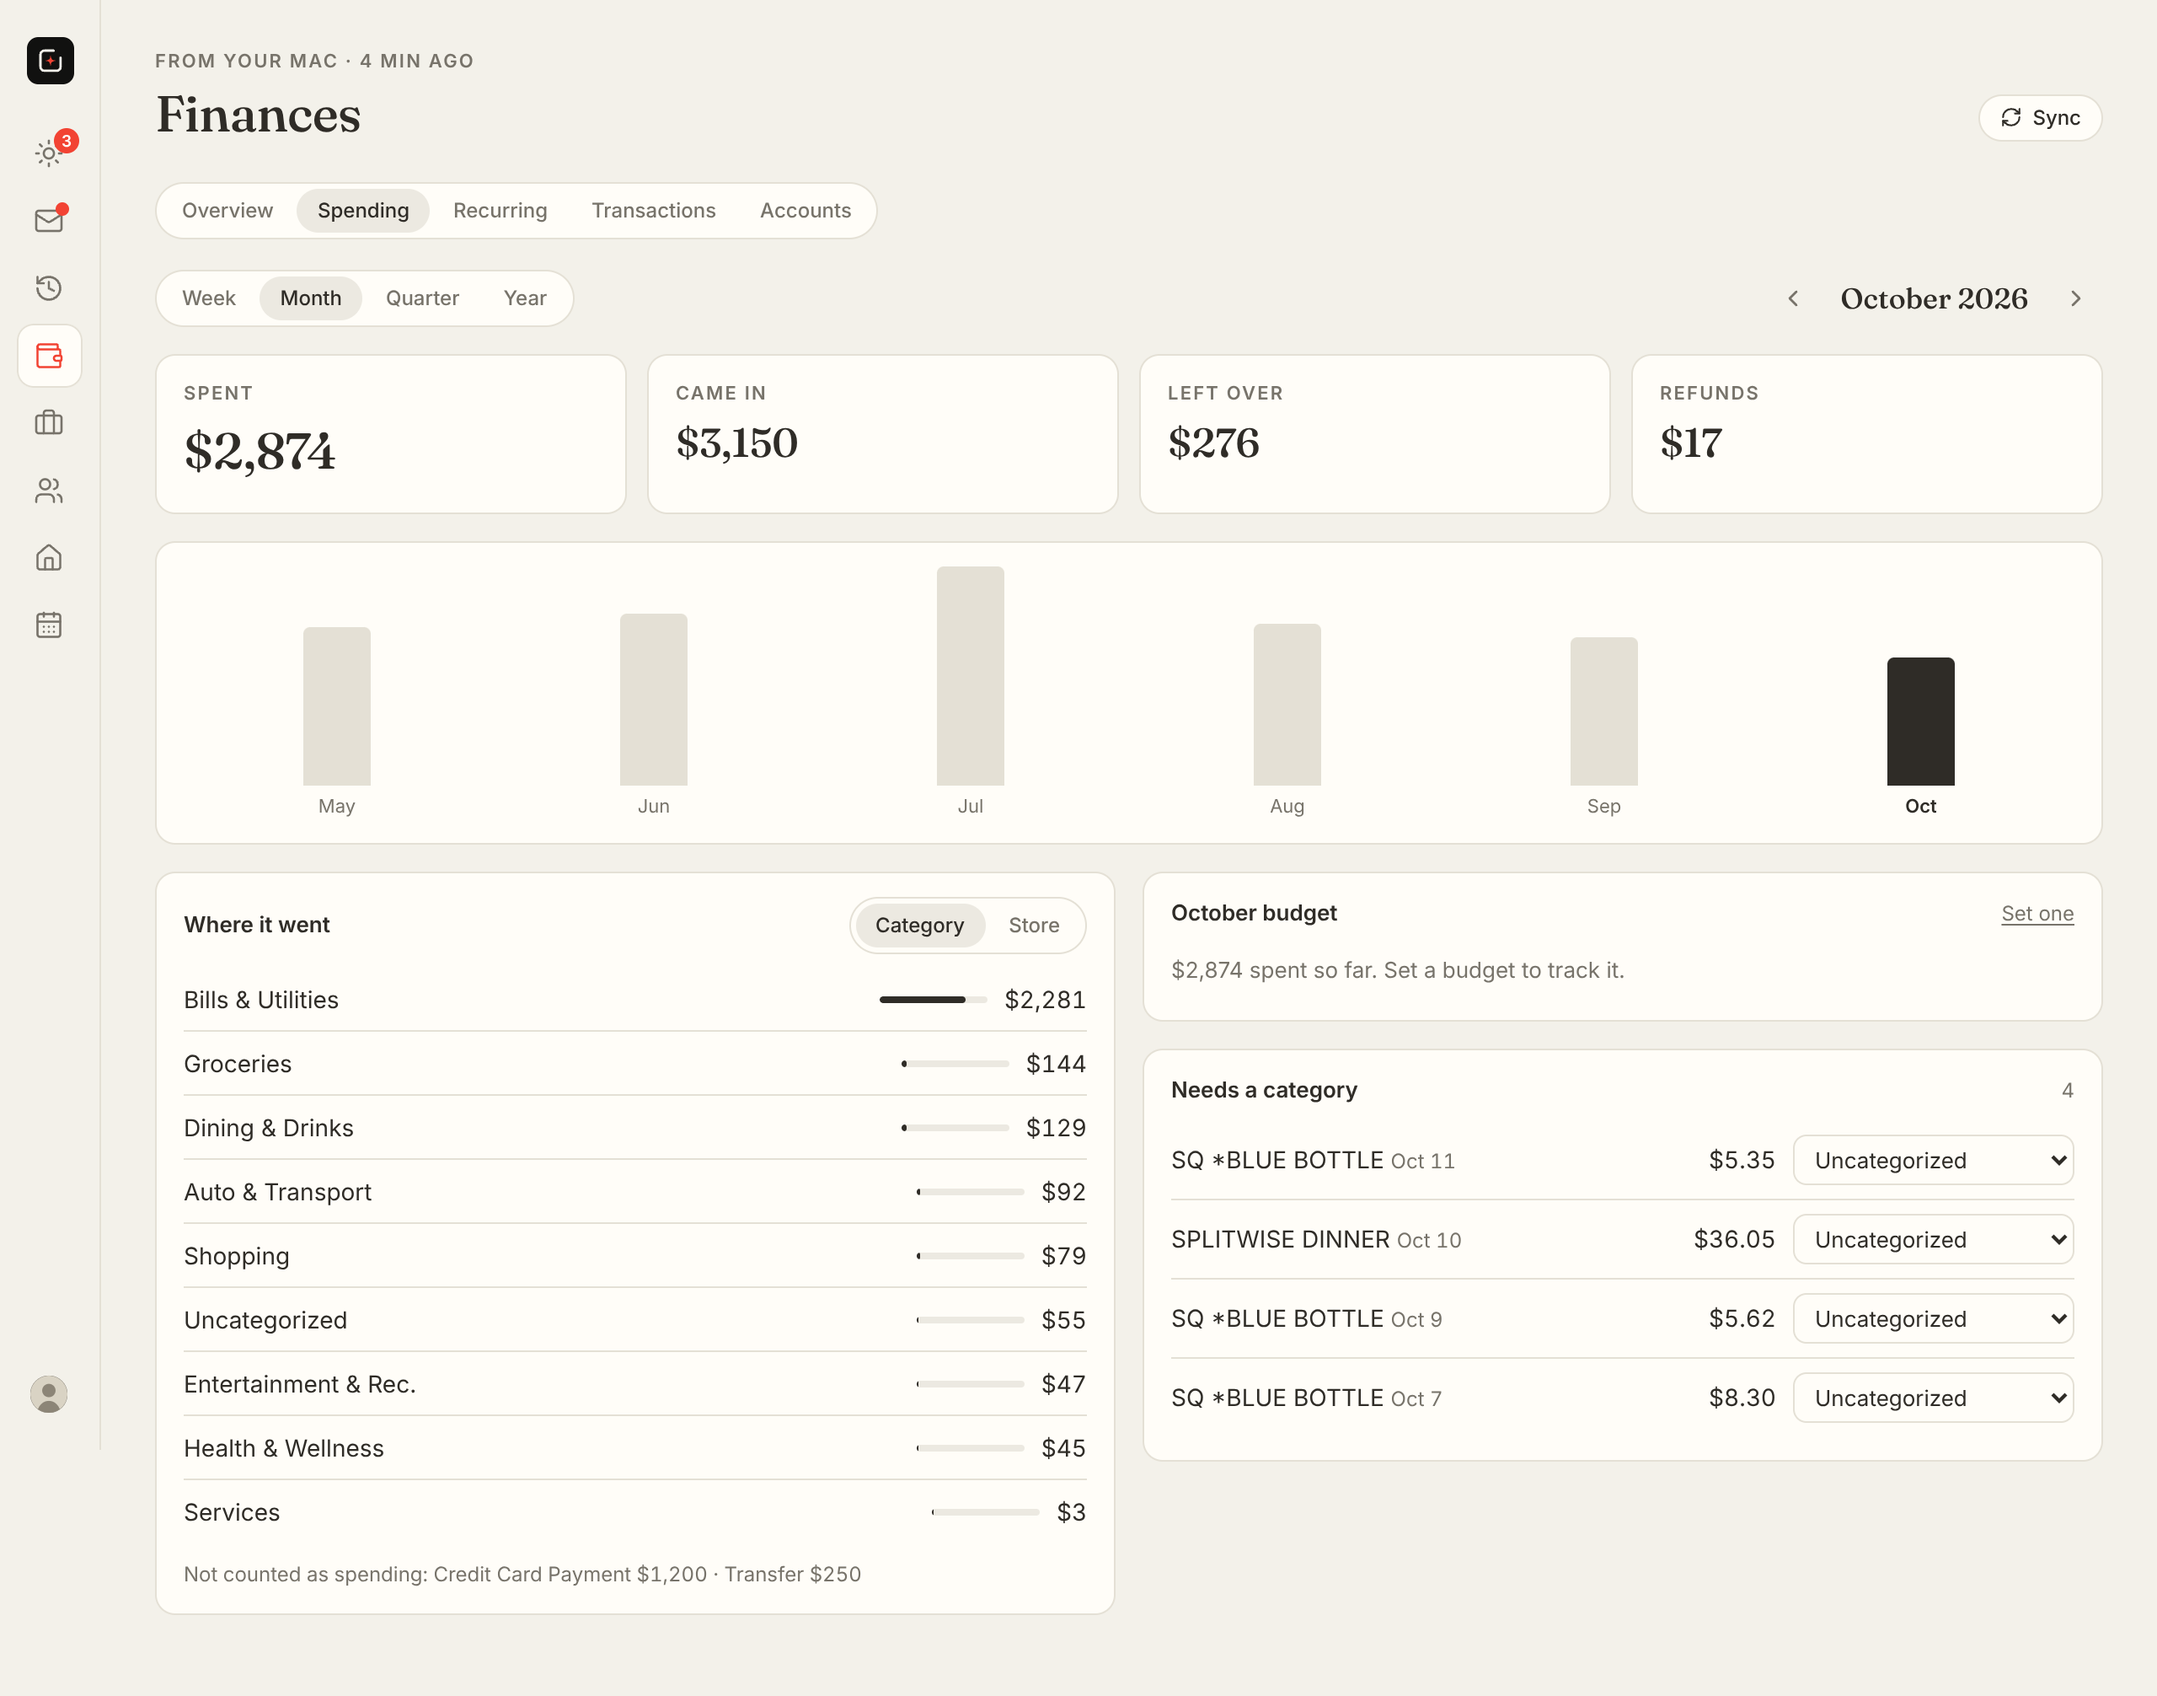
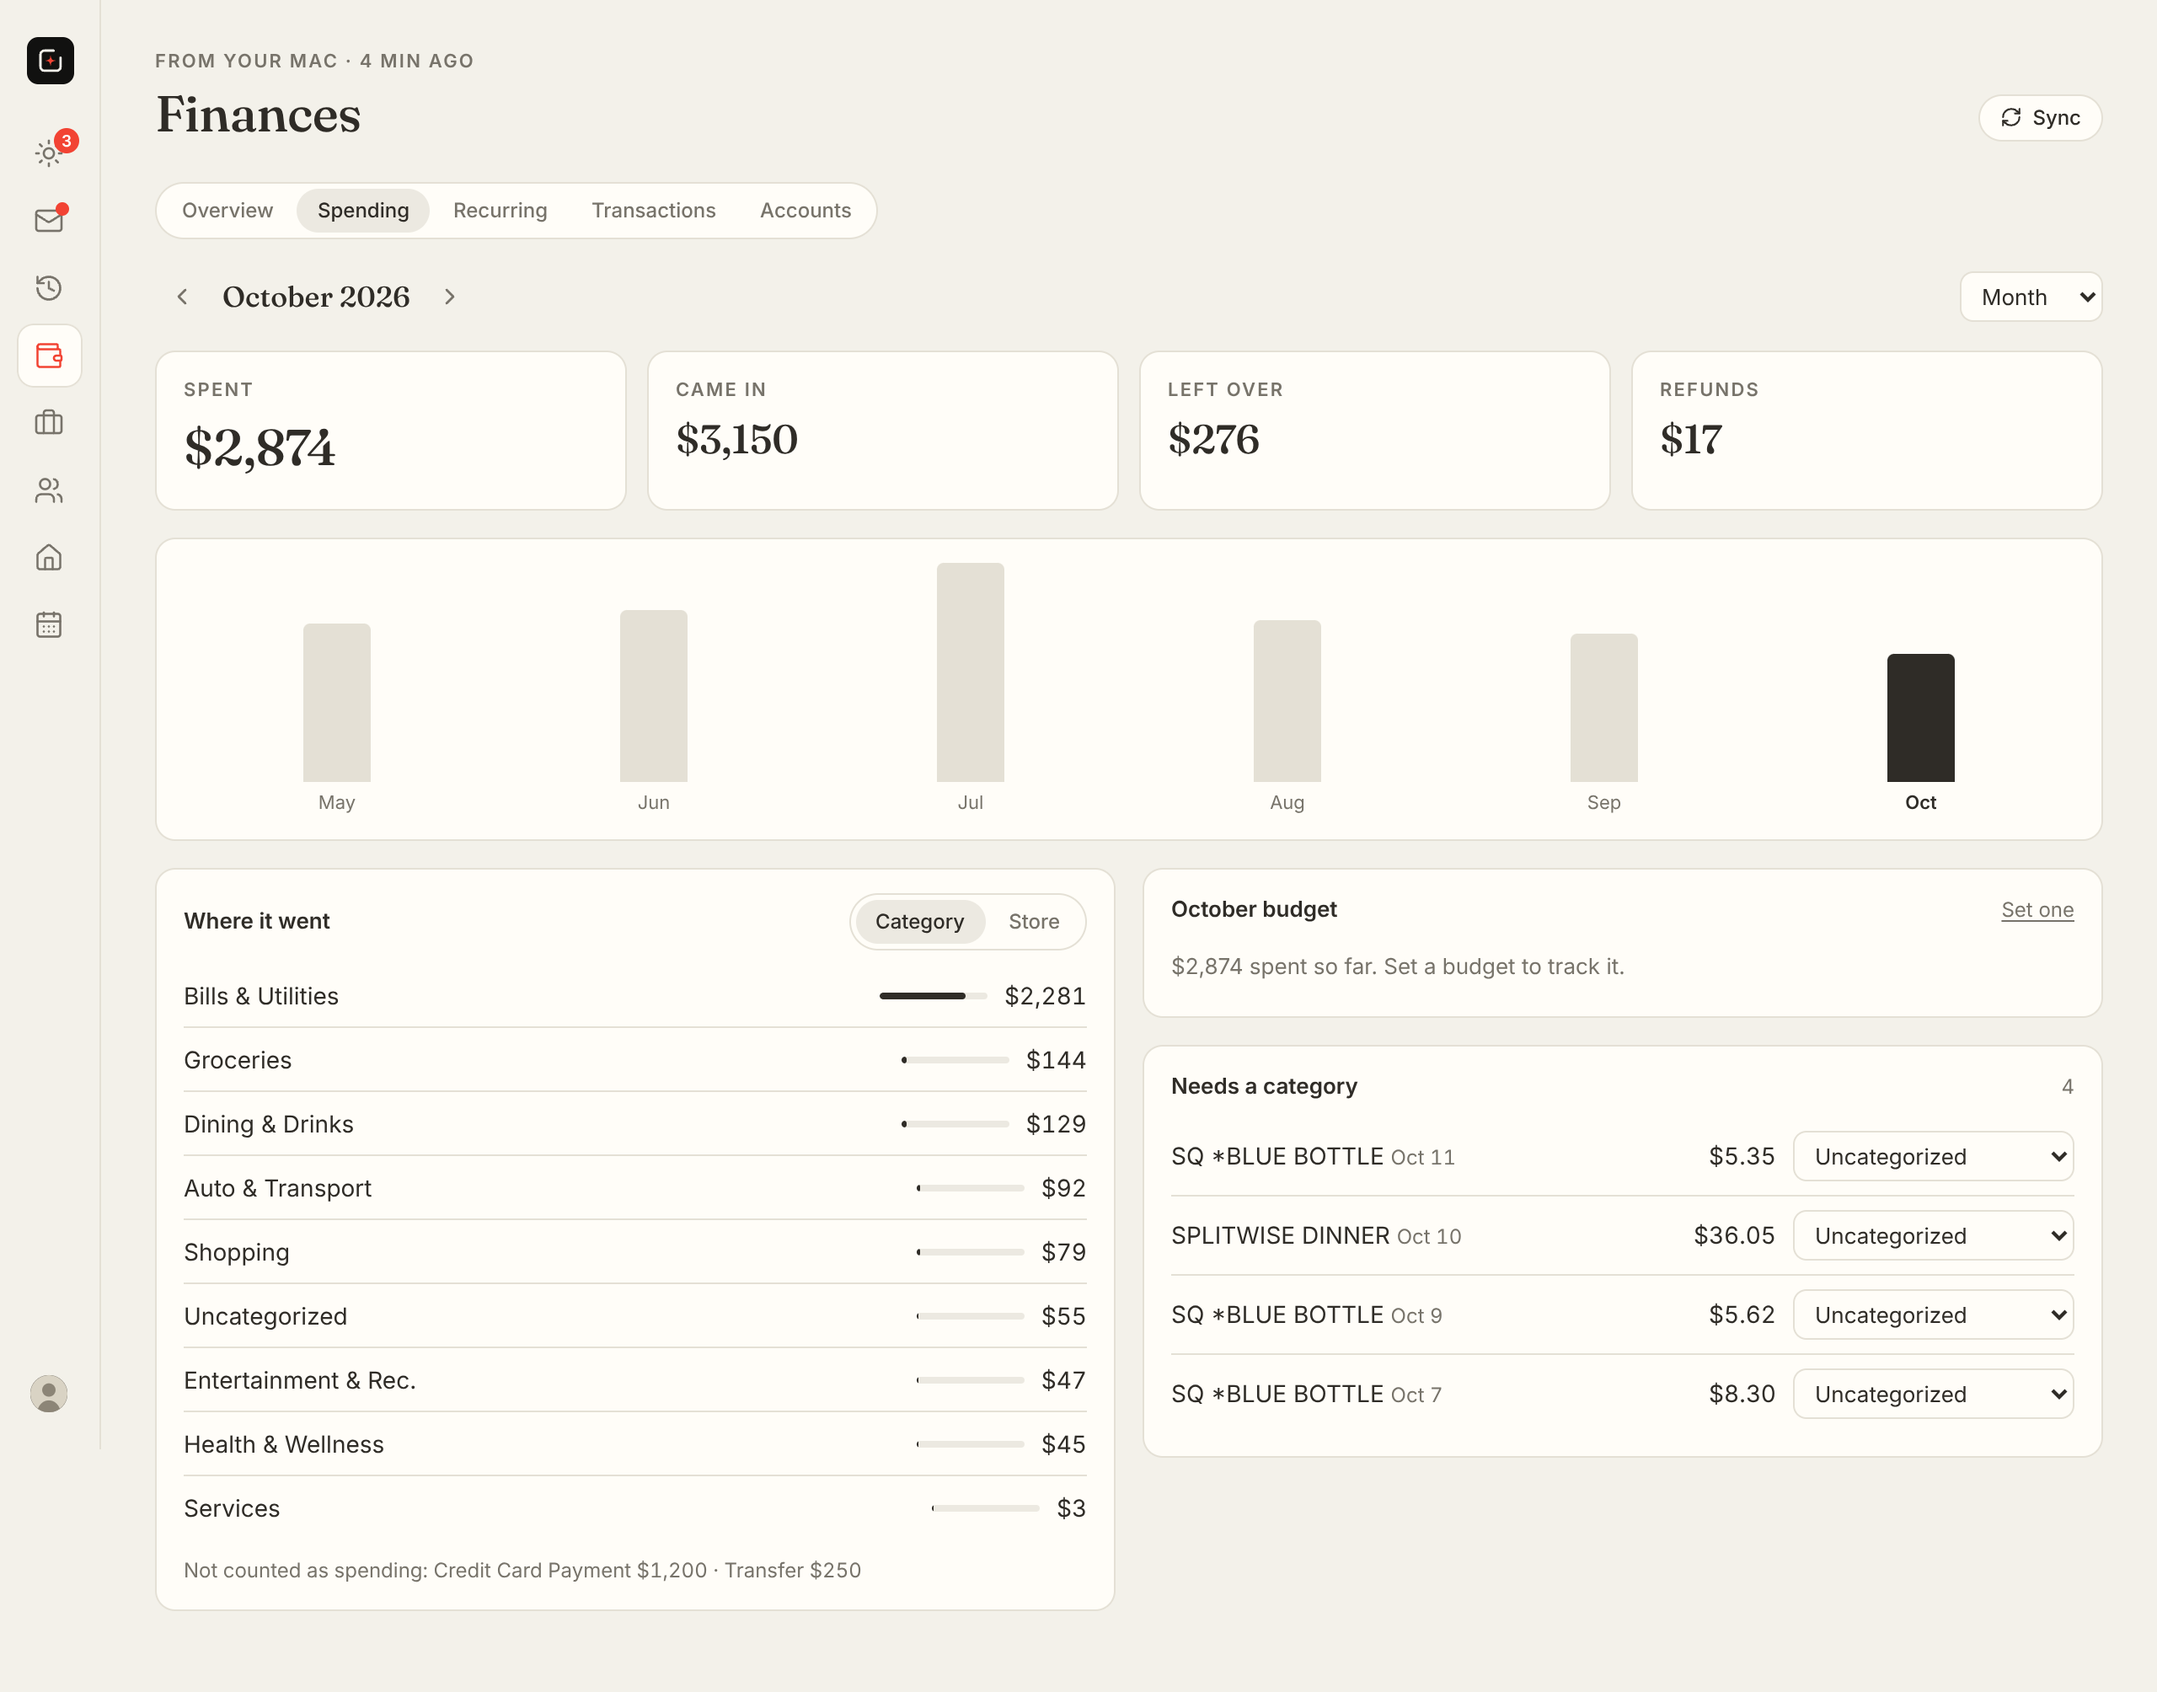
Finances: one row of tabs, period picker as a dropdown, tabs fit on phone
Claude-Session: https://claude.ai/code/session_014Egirv3gvbTzrnHaoEqViP

diff --git a/src/pages/Finances.jsx b/src/pages/Finances.jsx
@@ -8,7 +8,7 @@ import { cancelGuide } from '../subscriptions.js'
 
 const TABS = [
   ['overview', 'Overview'], ['spending', 'Spending'], ['recurring', 'Recurring'],
-  ['transactions', 'Transactions'], ['accounts', 'Accounts'],
+  ['transactions', 'Transactions', 'Activity'], ['accounts', 'Accounts'],
 ]
 const GROUPS = [
   ['checking', 'Checking'], ['card', 'Cards'], ['savings', 'Savings'], ['investments', 'Investments'], ['loan', 'Loans'],
@@ -183,15 +183,15 @@ function Spending({ p, send }) {
 
   return (
     <>
-      <div className="row between wrap gap">
-        <div className="seg">
-          {PERIODS.map(([k, label]) => <button key={k} aria-pressed={period === k} onClick={() => { setPeriod(k); setOffset(0) }}>{label}</button>)}
-        </div>
+      <div className="row between gap fin-periodbar">
         <div className="row gap">
           <button className="icon-btn" aria-label="Earlier" disabled={!older} onClick={() => setOffset(offset + 1)}><ChevronLeft size={16} /></button>
           <span className="fin-period">{s.title}</span>
           <button className="icon-btn" aria-label="Later" disabled={offset === 0} onClick={() => setOffset(offset - 1)}><ChevronRight size={16} /></button>
         </div>
+        <select className="fin-select" aria-label="Period" value={period} onChange={(e) => { setPeriod(e.target.value); setOffset(0) }}>
+          {PERIODS.map(([k, label]) => <option key={k} value={k}>{label}</option>)}
+        </select>
       </div>
 
       <div className="stats even fin-stats">
@@ -576,7 +576,11 @@ export default function Finances() {
       </PageHeader>
 
       <div className="seg tabs-seg fin-tabs">
-        {TABS.map(([k, label]) => <button key={k} aria-pressed={tab === k} onClick={() => go(k)}>{label}</button>)}
+        {TABS.map(([k, label, short]) => (
+          <button key={k} aria-pressed={tab === k} onClick={() => go(k)}>
+            {short ? <><span className="fin-long">{label}</span><span className="fin-short">{short}</span></> : label}
+          </button>
+        ))}
       </div>
 
       {slow && <p className="note">Waiting for your Mac. It picks up changes when it's on and the Money app is running.</p>}

diff --git a/src/styles.css b/src/styles.css
@@ -780,6 +780,16 @@ button.set-row:active, button.set-row:hover { background: var(--hover); }
 
 /* ---------- finances (money app from the Mac) ---------- */
 .fin-tabs { margin-bottom: 2px; }
+.fin-short { display: none; }
+.fin-periodbar { flex-wrap: nowrap; }
+.fin-periodbar .fin-period { min-width: 0; }
+.fin-periodbar .fin-select { flex: none; width: auto; }
+@media (max-width: 640px) {
+  .fin-tabs { align-self: stretch; }
+  .fin-tabs button { flex: 1; padding: 0 6px; }
+  .fin-long { display: none; }
+  .fin-short { display: inline; }
+}
 .fin-line { display: block; width: 100%; height: 120px; overflow: visible; }
 .fin-line-ink { fill: none; stroke: var(--fg); stroke-width: 1.6; vector-effect: non-scaling-stroke; stroke-linejoin: round; }
 .fin-line-ghost { fill: none; stroke: var(--muted); stroke-width: 1.2; stroke-dasharray: 4 4; vector-effect: non-scaling-stroke; opacity: .6; }
